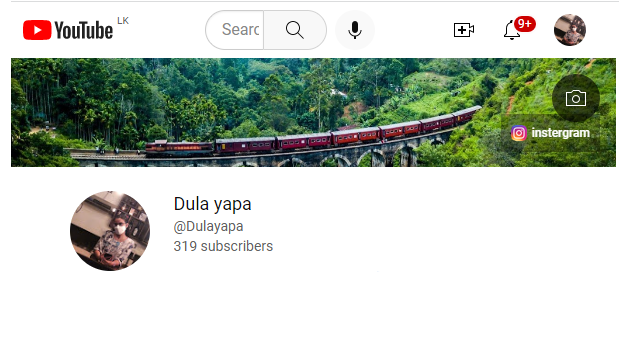
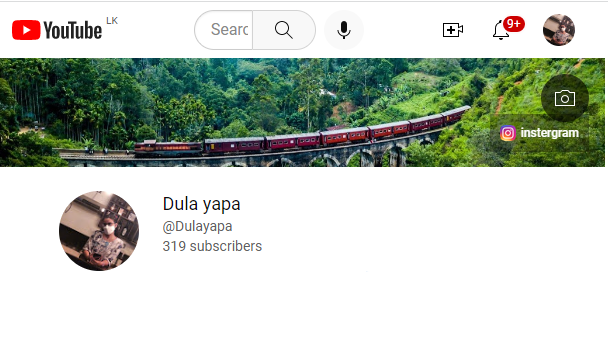
add border to main img

diff --git a/dc create.html b/dc create.html
@@ -3,8 +3,10 @@
 
 <head>
     <title>DC create</title>
-    <meta name="viewport" content="initial-scale=1.0, width=device-width">
-    <link rel="stylesheet" href="https://fonts.googleapis.com/css?family=Merriweather">
+    <meta name="viewport"
+          content="initial-scale=1.0, width=device-width">
+    <link rel="stylesheet"
+          href="https://fonts.googleapis.com/css?family=Merriweather">
     <style>
         body {
             font-family: "Merriweather", sans-serif;
@@ -133,20 +135,22 @@
                 transform: translateY(-15px);
             }
 
-           
-        }
-        .fade-in{
-                animation: fade-in 2s linear infinite;
-            }
-             @keyframes fade-in {
-                from {
-                    opacity: 0;
-                }
 
-                to {
-                    opacity: 1;
-                }
+        }
+
+        .fade-in {
+            animation: fade-in 2s linear infinite;
+        }
+
+        @keyframes fade-in {
+            from {
+                opacity: 0;
             }
+
+            to {
+                opacity: 1;
+            }
+        }
     </style>
 
 </head>
@@ -167,7 +171,7 @@
             </div>
             <br />
             <div class="bounce"
-                style="display:flex; justify-content: center;font: size 35px;flex-direction: column;text-align: center; ">
+                 style="display:flex; justify-content: center;font: size 35px;flex-direction: column;text-align: center; ">
                 <h2>Click below link and join with dula yapa channel.<br>
                     <span style="font-size:50px; width:100% ; "> &#9196 </span>
                 </h2>
@@ -184,8 +188,10 @@
             <a href="https://www.youtube.com/c/Dulayapa">dulayapa you tube</a>
             <span style="font-size:15px"> &#10055 &#10055 &#10055</span>
         </h1>
-        <div class="fade-in"style="display: flex; justify-content: center; align-items: center; flex-direction: column;">
-            <img src="Screenshot 2022-12-26 134508.png" style="width: 500px; margin-top: 20px; margin-bottom: 20px;" />
+        <div class="fade-in"
+             style="display: flex; justify-content: center; align-items: center; flex-direction: column;">
+            <img src="Screenshot 2022-12-26 134508.png"
+                 style="width: 500px; margin-top: 20px; margin-bottom: 20px; border-radius: 10px;" />
         </div>
 
         <!-- <div style="display: inline-block; position: relative; margin:0px 10px ">
@@ -223,26 +229,30 @@
 
                 <a href="https://youtube.com/playlist?list=PL5OqM2M00g--6j-isYxtEhHR2amV3pWfT">IT and Education
                 </a>
-                <img src="education .jpg" style=" width: 250px; margin-top: 10px;">
+                <img src="education .jpg"
+                     style=" width: 250px; margin-top: 10px;">
             </div>
 
             <div class="imgbox">
 
                 <a href="https://youtube.com/playlist?list=PL5OqM2M00g-_ehJLaBV0MiR28rCvGv41F">Review
                 </a>
-                <img src="review.jpg" alt="review">
+                <img src="review.jpg"
+                     alt="review">
             </div>
 
             <div class="imgbox">
                 <a href="https://youtube.com/playlist?list=PL5OqM2M00g-9ViNT23K9x7ufIBFJ7mtoY">Nature
                 </a>
-                <img src="nature.jpg" alt="nature">
+                <img src="nature.jpg"
+                     alt="nature">
 
             </div>
             <div class="imgbox">
                 <a href="https://youtube.com/playlist?list=PL5OqM2M00g-9vuZKMpGW1KyMM46dqeVuw">Vlog
                 </a>
-                <img src="vlog.jpg" alt="vlog">
+                <img src="vlog.jpg"
+                     alt="vlog">
 
             </div>
 
